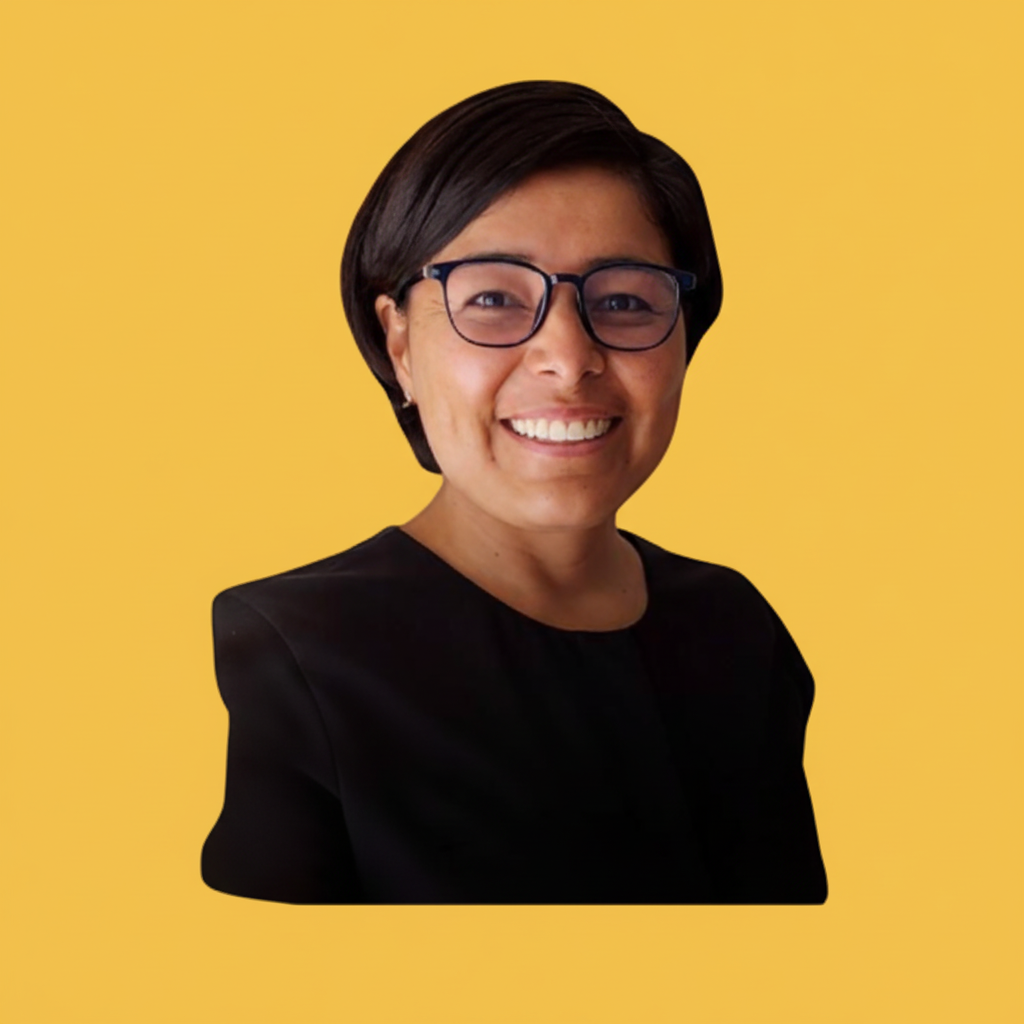
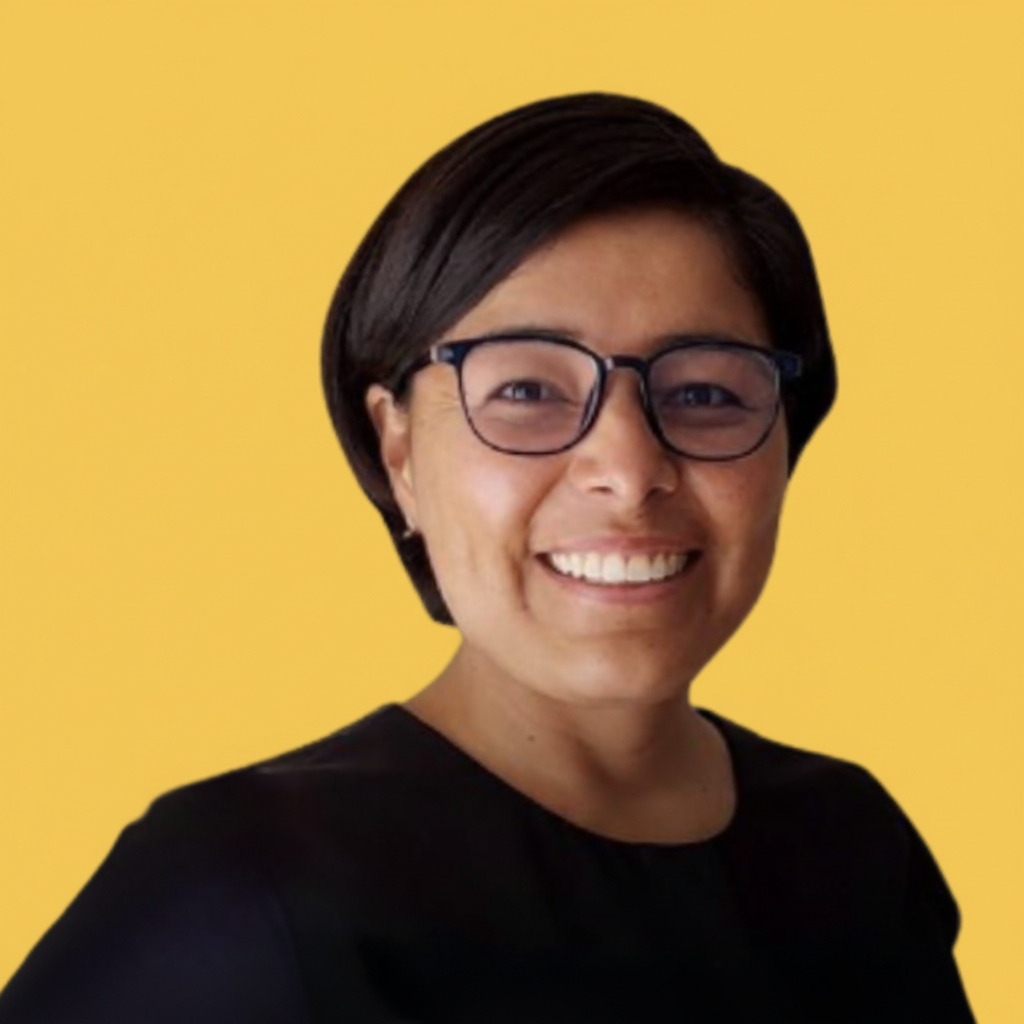
Changes

diff --git a/src/components/SpeakersSection.tsx b/src/components/SpeakersSection.tsx
@@ -6,6 +6,7 @@ import diegoPhoto from "@/assets/speakers/diego-balderas.png";
 import rubyPhoto from "@/assets/speakers/ruby-acnez.png";
 import danielPhoto from "@/assets/speakers/daniel-gomez.png";
 import dianaPhoto from "@/assets/speakers/diana-rubio.png";
+import yunenPhoto from "@/assets/speakers/yunen-castro.png";
 
 const speakers = [
   { name: "Adriana Caballero", talk: "Cómo diseñar clases que inspiren y conecten en tiempos de IA", day: "Día 1 · 17 Mar", photo: adrianaPhoto },
@@ -13,8 +14,9 @@ const speakers = [
   { name: "José Lizarraga", talk: "", day: "Día 2 · 18 Mar", photo: null },
   { name: "Diego Balderas", talk: "Arte y matemáticas: una fusión neurodidáctica", day: "Día 2 · 18 Mar", photo: diegoPhoto },
   { name: "Ruby Acnez", talk: "Arte y matemáticas: una fusión neurodidáctica", day: "Día 2 · 18 Mar", photo: rubyPhoto },
-  { name: "Daniel Gómez", talk: "", day: "Día 3 · 19 Mar", photo: danielPhoto },
+  { name: "Daniel Gómez", talk: "Datos en Acción: Cultura de Datos para Niños", day: "Día 3 · 19 Mar", photo: danielPhoto },
   { name: "Diana Rubio", talk: "IA con Propósito: La Nueva Generación STEM", day: "Día 3 · 19 Mar", photo: dianaPhoto },
+  { name: "Yunen Castro", talk: "Canva: un ecosistema digital para la educación", day: "Día 4 · 20 Mar", photo: yunenPhoto },
 ];
 
 const SpeakersSection = () => {
@@ -44,7 +46,7 @@ const SpeakersSection = () => {
               transition={{ duration: 0.4, delay: i * 0.07 }}
               className="flex flex-col items-center text-center bg-card rounded-xl border border-border p-6 hover:border-secondary transition-colors"
             >
-              <div className="w-20 h-20 rounded-full bg-secondary overflow-hidden flex items-center justify-center mb-4 shadow-md">
+              <div className="w-28 h-28 rounded-full bg-secondary overflow-hidden flex items-center justify-center mb-4 shadow-md">
                 {speaker.photo ? (
                   <img src={speaker.photo} alt={speaker.name} className="w-full h-full object-cover" />
                 ) : (

diff --git a/src/components/ScheduleSection.tsx b/src/components/ScheduleSection.tsx
@@ -28,7 +28,7 @@ const days = [
     label: "Miércoles 19",
     blocks: [
       { time: "18:30 – 18:35", type: "intro", content: "Intro" },
-      { time: "18:35 – 19:25", type: "talk", speaker: "Daniel Gómez – F3", title: "" },
+      { time: "18:35 – 19:25", type: "talk", speaker: "Daniel Gómez", title: "Datos en Acción: Cultura de Datos para Niños" },
       { time: "19:25 – 19:35", type: "sponsor", content: "Kidgineers" },
       { time: "19:35 – 20:25", type: "talk", speaker: "Diana Rubio", title: "IA con Propósito: La Nueva Generación STEM" },
       { time: "20:25 – 20:30", type: "close", content: "Cierre" },
@@ -39,7 +39,7 @@ const days = [
     label: "Jueves 20",
     blocks: [
       { time: "18:30 – 18:35", type: "intro", content: "Intro" },
-      { time: "18:35 – 19:25", type: "talk", speaker: "Canva", title: "" },
+      { time: "18:35 – 19:25", type: "talk", speaker: "Yunen Castro", title: "Canva: un ecosistema digital para la educación" },
       { time: "19:25 – 19:35", type: "sponsor", content: "AlexandrIA" },
       { time: "19:35 – 20:25", type: "close", content: "—" },
       { time: "20:25 – 20:30", type: "close", content: "Cierre" },

diff --git a/src/components/AlliesSection.tsx b/src/components/AlliesSection.tsx
@@ -8,6 +8,7 @@ import scienkoLogo from "@/assets/logos/scienko.png";
 import syncLogo from "@/assets/logos/sync.png";
 import freepikLogo from "@/assets/logos/freepik.png";
 import kidgineerLogo from "@/assets/logos/kidgineers.avif";
+import canvaEduLogo from "@/assets/logos/canva-education.png";
 
 const organizers = [
   { name: "Young AI Leaders Community · Mexico City Hub", logo: youngAiLeadersLogo },
@@ -22,6 +23,7 @@ const allies = [
   { name: "Sync.", logo: syncLogo },
   { name: "Freepik", logo: freepikLogo },
   { name: "KidGineers", logo: kidgineerLogo },
+  { name: "Canva for Education", logo: canvaEduLogo },
 ];
 
 const LogoCard = ({ name, logo }: { name: string; logo: string | null }) => (
